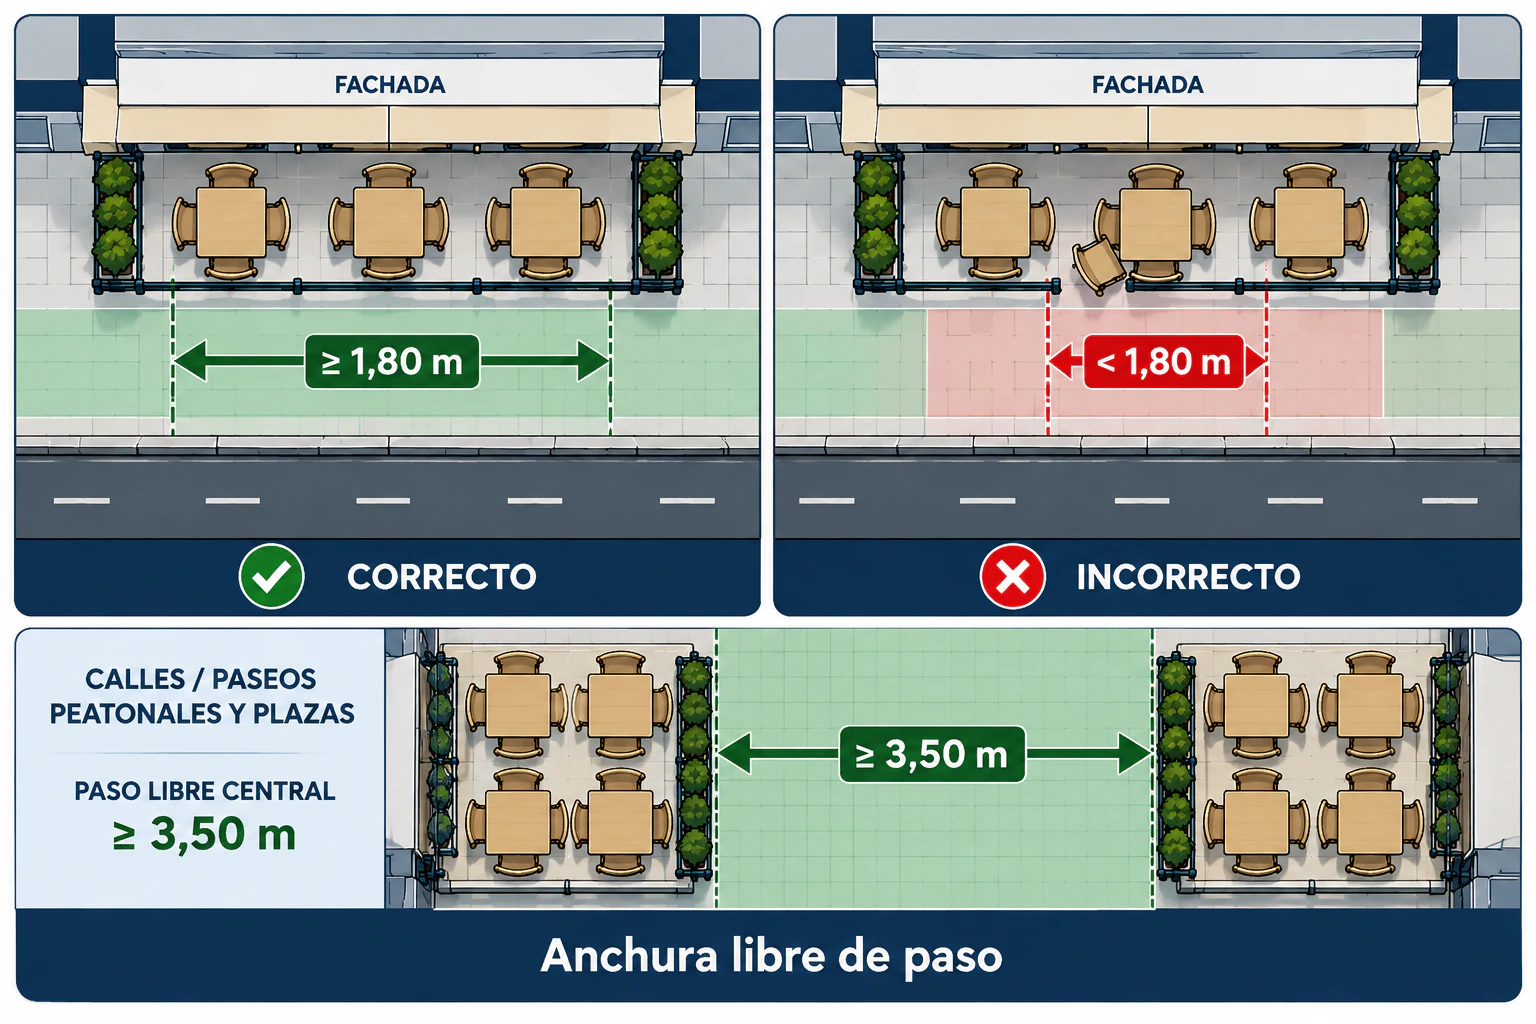
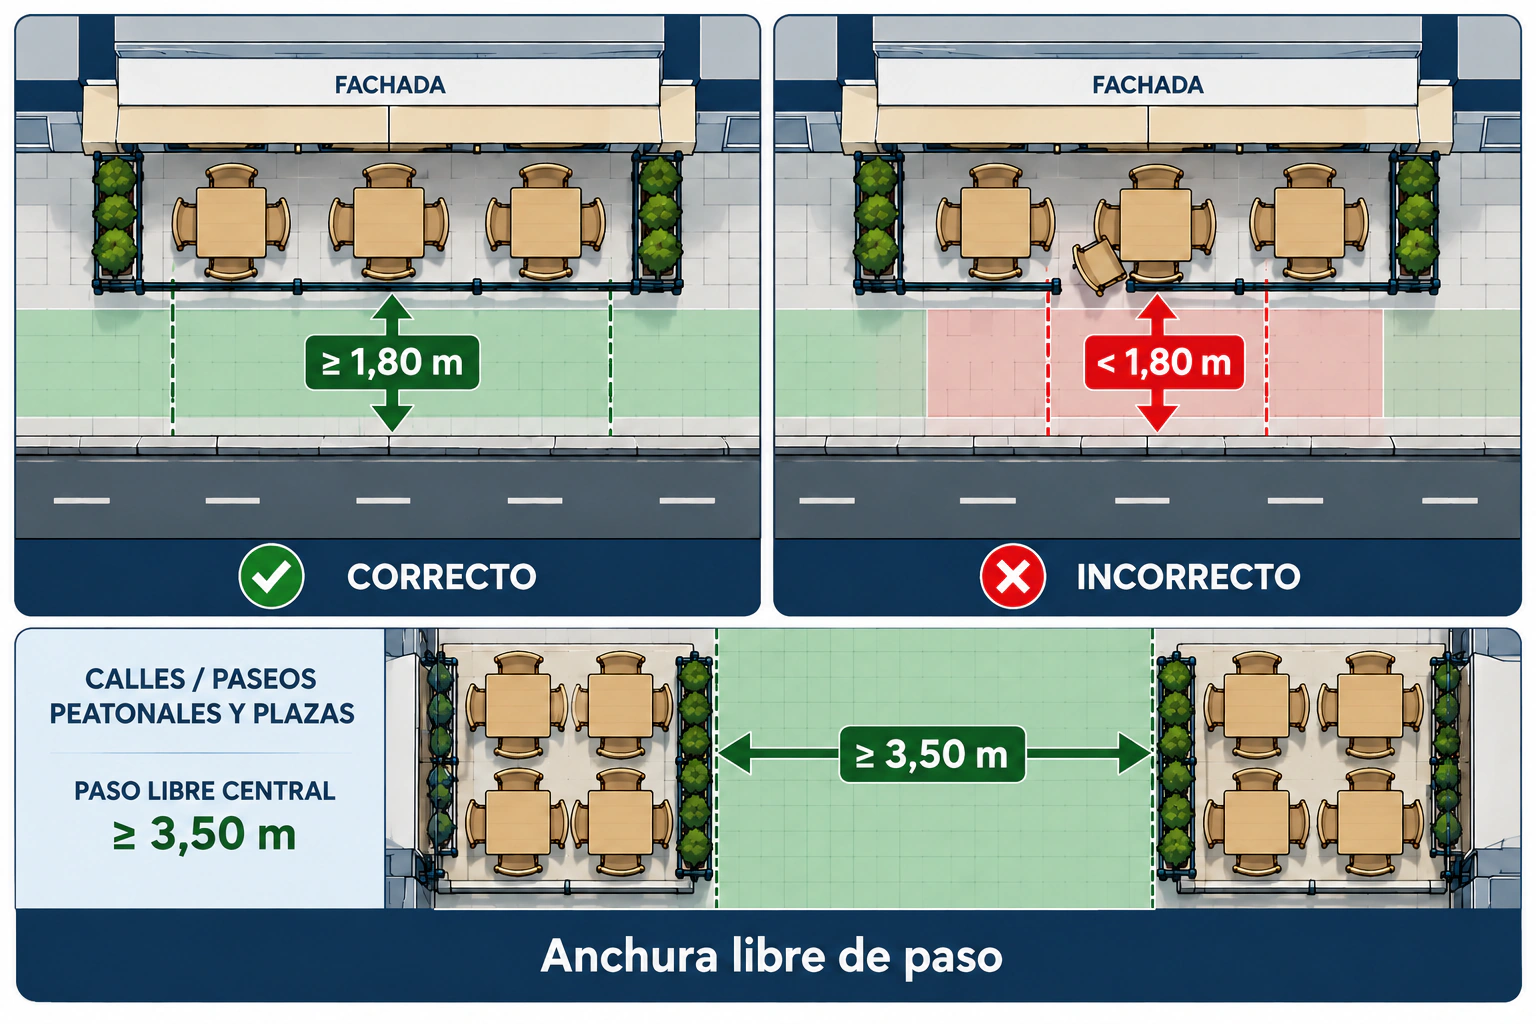
Optimiza ayudas visuales de Terrazas

diff --git a/app/terrace-visual-guides.tsx b/app/terrace-visual-guides.tsx
@@ -49,8 +49,8 @@ export const TERRACE_VISUAL_GUIDES: readonly TerraceVisualGuideDefinition[] = [
     summary: "Referencia visual de separación al bordillo, altura de valla y apertura máxima.",
     image: "/imagenes/terrazas/linea-rastrillo-valla-bordillo.webp",
     alt: "Medidas de valla y bordillo en terraza en línea de rastrillo",
-    width: 1672,
-    height: 941,
+    width: 1774,
+    height: 887,
   },
   {
     id: "clear-access",
